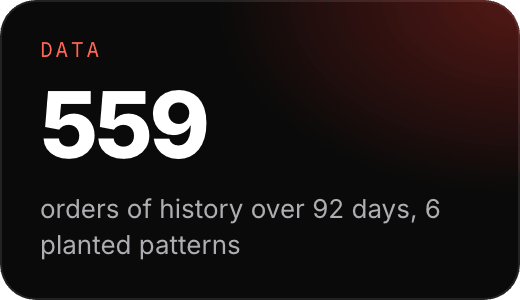
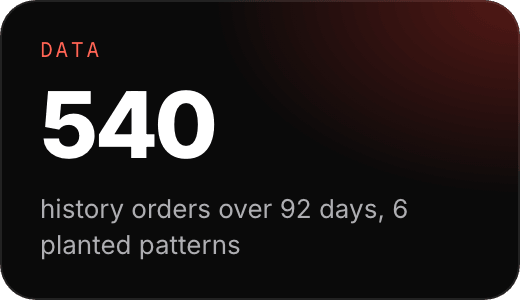
Bring the README in line with the final film and the live data

Changed region(s): [[0.0615, 0.66, 0.8615, 0.75], [0.1846, 0.3, 0.4308, 0.54]]

diff --git a/tools/gen-readme-assets.ts b/tools/gen-readme-assets.ts
@@ -4,7 +4,9 @@
 // presentation screenshots in docs/screenshots/presentation/; nothing is redrawn.
 //   npx tsx tools/gen-readme-assets.ts                       everything
 //   npx tsx tools/gen-readme-assets.ts --only logos,badges   some parts: logos, badges, banner, loop, stats, screens,
-//                                                            arch, film (film needs the frames named at writeFilm)
+//                                                            arch, film
+// film runs only when named: docs/readme/film.png is now a frame of the final cut, and this part draws the old poster
+// of the 2:55 draft over it (it also needs the frames named at writeFilm).
 // CHROME=/path/to/chrome overrides the browser. Output PNGs are palette compressed with sharp.
 import { spawn } from 'node:child_process';
 import {
@@ -490,22 +492,24 @@ async function writeLoop(): Promise<void> {
 }
 
 // ---------------------------------------------------------------------------------------------------------------
-// Number cards: 260 × 150 at 2×. Every number is measured; the README links each card to its source file.
+// Number cards: 260 × 150 at 2×. Every number is measured; the README links each card to its source file. The two
+// live loop cards are the film's take (docs/live-loop-timings.md); the history card counts history orders only (the
+// database also holds the 19 orders of the Demo Day start state).
 
 const STATS: { file: string; eyebrow: string; value: string; unit?: string; label: string }[] = [
   {
     file: 'issue-to-red',
     eyebrow: 'Live loop',
-    value: '1.9',
+    value: '0.72',
     unit: 's',
-    label: '«Выдать» to the worker’s red screen on the live database',
+    label: '«Выдать» to the red screen, Release build on two simulators',
   },
   {
     file: 'ai-verdict',
     eyebrow: 'Live loop',
-    value: '9.5',
+    value: '8.49',
     unit: 's',
-    label: 'from sending the report to Claude’s verdict, the same live run',
+    label: 'from sending the report to Claude’s verdict on the worker’s phone',
   },
   {
     file: 'golden',
@@ -534,8 +538,8 @@ const STATS: { file: string; eyebrow: string; value: string; unit?: string; labe
   {
     file: 'history',
     eyebrow: 'Data',
-    value: '559',
-    label: 'orders of history over 92 days, 6 planted patterns',
+    value: '540',
+    label: 'history orders over 92 days, 6 planted patterns',
   },
   {
     file: 'tests',
@@ -830,4 +834,4 @@ if (want('loop')) await writeLoop();
 if (want('stats')) await writeStats();
 if (want('screens')) await writeScreens();
 if (want('arch')) await writeArchitecture();
-if (want('film')) await writeFilm();
+if (only.has('film')) await writeFilm();

diff --git a/README.md b/README.md
@@ -46,8 +46,8 @@ suite. Click a card for the file that holds it. Estimates live in their own sect
 
 <table>
   <tr>
-    <td align="center"><a href="docs/progress.md"><img src="docs/readme/stats/issue-to-red.png" width="250" alt="1.9 s from «Выдать» to the worker's red screen on the live database"></a><br><sub><a href="docs/progress.md">progress.md</a>, P7 check in two browsers</sub></td>
-    <td align="center"><a href="docs/progress.md"><img src="docs/readme/stats/ai-verdict.png" width="250" alt="9.5 s from sending the report to Claude's verdict"></a><br><sub><a href="docs/progress.md">progress.md</a>, the same check</sub></td>
+    <td align="center"><a href="docs/live-loop-timings.md"><img src="docs/readme/stats/issue-to-red.png" width="250" alt="0.72 s from «Выдать» on the master's phone to the worker's red screen, Release build on two iPhone simulators against the live database"></a><br><sub><a href="docs/live-loop-timings.md">live-loop-timings.md</a>, the film's take, interval 1</sub></td>
+    <td align="center"><a href="docs/live-loop-timings.md"><img src="docs/readme/stats/ai-verdict.png" width="250" alt="8.49 s from sending the report to Claude's verdict on the worker's phone, the same take"></a><br><sub><a href="docs/live-loop-timings.md">live-loop-timings.md</a>, the same take, interval 6</sub></td>
     <td align="center"><a href="docs/golden-results.md"><img src="docs/readme/stats/golden.png" width="250" alt="10 из 10 golden set verdicts right with Claude Sonnet 5.5"></a><br><sub><a href="docs/golden-results.md">golden-results.md</a></sub></td>
   </tr>
   <tr>
@@ -56,11 +56,15 @@ suite. Click a card for the file that holds it. Estimates live in their own sect
     <td align="center"><a href="docs/phase5-acceptance.md"><img src="docs/readme/stats/shift-report.png" width="250" alt="5 of 5 shift report windows equal to a manual SQL count"></a><br><sub><a href="docs/phase5-acceptance.md">phase5-acceptance.md</a> (b)</sub></td>
   </tr>
   <tr>
-    <td align="center"><a href="tools/seed/PATTERNS.md"><img src="docs/readme/stats/history.png" width="250" alt="559 orders of history over 92 days with 6 planted patterns"></a><br><sub><a href="docs/progress.md">progress.md</a>, <a href="tools/seed/PATTERNS.md">PATTERNS.md</a></sub></td>
+    <td align="center"><a href="tools/seed/PATTERNS.md"><img src="docs/readme/stats/history.png" width="250" alt="540 history orders over 92 days with 6 planted patterns"></a><br><sub><a href="docs/progress.md">progress.md</a>, <a href="tools/seed/PATTERNS.md">PATTERNS.md</a></sub></td>
     <td align="center"><a href="vitest.config.ts"><img src="docs/readme/stats/tests.png" width="250" alt="660 automated tests pass, plus 7 of 7 live contract scenarios"></a><br><sub><code>npx vitest run</code>, 09.10.2026; <a href="docs/progress.md">progress.md</a></sub></td>
     <td align="center"><a href="docs/golden-results.md"><img src="docs/readme/stats/cost.png" width="250" alt="0.016 USD mean cost of one check in the live golden run"></a><br><sub><a href="docs/golden-results.md">golden-results.md</a>, 0.16 USD for 10</sub></td>
   </tr>
 </table>
+
+The two timings are the take the film plays: the Release build on two iPhone simulators against the live database, read
+frame by frame off the screen recordings of 9 October 2026. An earlier run of the same loop between two browsers on the
+phone app in the browser measured 1.9 s to the red screen and 9.5 s to the verdict ([`docs/progress.md`](docs/progress.md), P7).
 
 ## How it works: one наряд, six steps
 
@@ -76,8 +80,9 @@ suite. Click a card for the file that holds it. Estimates live in their own sect
 | 6 | мастер | The full report; «Согласен, закрыть», «Изменить оценку» or «Вернуть на доработку». The master has the final word. | «Закрыт» |
 
 Every status change is one `order_events` row with the server's clock, and reaches the other devices through
-<img src="docs/readme/logos/supabase.svg" height="18" align="top"> Supabase Realtime: the case asks for 5 s, the live
-check in two browsers measured 1.9 s from «Выдать» to the red screen.
+<img src="docs/readme/logos/supabase.svg" height="18" align="top"> Supabase Realtime: the case asks for 5 s, the Release
+build on two iPhone simulators measured 0.72 s from «Выдать» to the red screen, and 0.7 to 1.4 s for «Принят в работу»,
+«В работе» and «Закрыт» to reach the other phone ([timings](docs/live-loop-timings.md)).
 
 ## Screens
 
@@ -172,7 +177,7 @@ project, and the bot's webhook is set; remote push on Android waits for the Fire
 
 <picture><source media="(prefers-color-scheme: dark)" srcset="packages/design/assets/mascots/dark/read.svg"><img src="packages/design/assets/mascots/read.svg" width="96" align="right" alt=""></picture>
 
-The synthetic history (559 orders over 92 days, generated inside the database) carries six planted patterns with an
+The synthetic history (540 orders over 92 days, generated inside the database) carries six planted patterns with an
 answer key ([`tools/seed/PATTERNS.md`](tools/seed/PATTERNS.md)). SQL detectors find them; Claude writes the cards from
 those numbers only, and a checker drops any card with a number that is not in the data.
 
@@ -275,7 +280,8 @@ gateway.
 
 **Integration with 1С and ТОиР.** Every table is a REST endpoint through PostgREST. A trigger writes `order.created`
 and `order.closed` (with the material lines) to `integration_outbox`, the seam for 1С:ТОИР documents: заявка на
-ремонт, акт выполненных работ, требование накладная на материалы.
+ремонт, акт выполненных работ, требование накладная на материалы. The exchange, the real payloads, the field mapping
+and the directory sync back from 1С: [`docs/integration-1c.md`](docs/integration-1c.md).
 
 **Security by construction.** Login by табельный номер and ПИН; the role comes from the JWT (`app_metadata.app_role`)
 and every table has row level security. The client never updates `orders`: every change goes through the security
@@ -320,16 +326,23 @@ falls back to rules only when the model is off or over budget.
 
 ## Demo video
 
-<a href="video/README.md"><img src="docs/readme/film.png" width="100%" alt="The Rota demo film, 2:55: the red emergency screen, the two phones, the AI verdict 87 из 100 and the analytics card for Конвейер К-3."></a>
+<a href="video/README.md"><img src="docs/readme/film.png" width="100%" alt="The Rota demo film, 2:58. Poster: the red emergency screen of order №660 for Насос НШ-32 маслостанции, the order Claude scores 84 из 100 later in the film."></a>
+<!-- YOUTUBE -->
 
-The film is code: a Remotion project in [`video/`](video/README.md) that cuts the Demo Day script to 2:55 at
-1920 × 1080 with Russian captions, every number on screen listed with its source in
-[`video/src/data/numbers.ts`](video/src/data/numbers.ts). The draft runs on the real presentation screens of the live
-project; the recorded takes of the phones and the web panel go to `video/public/footage/`
-([RECORDING.md](video/RECORDING.md)) and replace the stills scene by scene. The final cut gets its link here.
+The final cut runs 2:58 at 1920 × 1080, with Russian captions and no voice. It is cut from the recordings of
+9 October 2026: the Release build of the app on two iPhone simulators (мастер 1001, исполнитель 2001, then 2002 for the
+rework) and the web panel, all on the live database. Emergency order №660 reaches the red screen, is accepted, started,
+closed with the after photo and checked by Claude: 84 из 100, «Принято», and the мастер closes it; №641, sent without a
+photo and with 6 bearings, comes back for rework. Waits are cut: the cuts in the deadline and rework scenes say so on
+screen («ожидание вырезано»), and the web clips are scripted takes played up to 2× faster. Every number in the film is
+read off the recording beside it or listed with its source in [`video/src/data/numbers.ts`](video/src/data/numbers.ts);
+the phone timings are in [`docs/live-loop-timings.md`](docs/live-loop-timings.md).
+
+The film is code: a Remotion project in [`video/`](video/README.md) with its [storyboard](video/STORYBOARD.md) and
+[recording guide](video/RECORDING.md).
 
 ```sh
-cd video && npm install && npm run render     # out/rota-demo.mp4, 2:55, 1920 × 1080
+cd video && npm install && npm run render     # out/rota-demo.mp4, 2:58, 1920 × 1080
 ```
 
 <details>
@@ -340,7 +353,8 @@ shows the web panel and mirrors A and B.
 
 1. A: the shift panel shows who is free, busy, queued and off shift; the board shows the active orders.
 2. A: photographs the oil leak on «Насос НШ-32 маслостанции» and issues an emergency order; the AI preselects Ахметов
-   with reasons; the tap counter stays at the required five.
+   with reasons; the app's own counter shows 6 taps in 15 s with the optional before photo (the film's take: «Выдан за
+   6 нажатий · 0:15»; the case allows 6 taps and one minute).
 3. B: siren and the red screen; «Принять», «Начать исполнение». A sees «Выполняет наряд №…» within seconds.
 4. A: a second order to Ахметов with the «1 мин» deadline; B puts it in the queue. The reminder fires at 30 s left,
    the overdue message reaches both phones within 5 s of the deadline.
@@ -366,7 +380,7 @@ shows the web panel and mirrors A and B.
 | [`supabase/tests`](supabase/tests) | SQL acceptance scripts and `transitions.json` |
 | [`tools`](tools) | Node scripts: golden set, LLM smoke test, push test, database check, acceptance checks, README assets |
 | [`video`](video/README.md) | the demo film: Remotion project, [storyboard](video/STORYBOARD.md), recording guide |
-| [`docs`](docs) | [development guide](docs/development.md), [architecture](docs/architecture.md), [decisions](docs/decisions.md), [design](docs/design.md), [progress](docs/progress.md), acceptance reports, the case PDF |
+| [`docs`](docs) | [development guide](docs/development.md), [architecture](docs/architecture.md), [1С integration](docs/integration-1c.md), [decisions](docs/decisions.md), [design](docs/design.md), [progress](docs/progress.md), [live loop timings](docs/live-loop-timings.md), acceptance reports, the [slides](docs/presentation/rota-presentation.pdf), the case PDF |
 | [`CLAUDE.md`](CLAUDE.md) | the engineering spec every phase was built against |
 
 ## Deliverables (case §12)
@@ -378,8 +392,8 @@ shows the web panel and mirrors A and B.
 | ✓ | Web panel and test accounts (мастер, исполнитель, руководитель) | [rota-naryad.netlify.app/login](https://rota-naryad.netlify.app/login) · 1001/1111, 2001/1234, 3001/3333 |
 | ✓ | Test dataset | [`supabase/seed/`](supabase/seed) and [`tools/seed/PATTERNS.md`](tools/seed/PATTERNS.md) |
 | ✓ | Architecture | [`docs/architecture.md`](docs/architecture.md) |
-| ○ | Presentation of at most 10 slides | in progress; screens ready in [`docs/screenshots/presentation/`](docs/screenshots/presentation/README.md) |
-| ○ | Demo video of at most 3 minutes | draft cut of 2:55 from [`video/`](video/README.md) on the real screens; the final cut after the phone recording, see [Demo video](#demo-video) |
+| ✓ | Presentation of at most 10 slides | 10 slides: [`docs/presentation/rota-presentation.pdf`](docs/presentation/rota-presentation.pdf) · [rota-naryad.netlify.app/rota-presentation.pdf](https://rota-naryad.netlify.app/rota-presentation.pdf) |
+| ✓ | Demo video of at most 3 minutes | the final cut, 2:58, from the footage recorded on 9 October 2026; the YouTube link is under the poster in [Demo video](#demo-video) |
 
 ## Credits and license
 
@@ -389,7 +403,7 @@ Geist Mono (SIL Open Font License). Platform marks come from Simple Icons (CC0) 
 say where Rota runs and what it connects to.
 
 No open source license is granted yet: all rights reserved by the author. The case materials belong to the organizers
-and АО «Костанайские Минералы». Every person in the data is synthetic. The README assets are rebuilt with
-`npx tsx tools/gen-readme-assets.ts`.
+and АО «Костанайские Минералы». Every person in the data is synthetic. The README pictures are rebuilt from the real
+screenshots with `npx tsx tools/gen-readme-assets.ts`; the film poster is a frame of the final cut.
 
 <p align="center"><img src="docs/readme/logos/rota.svg" height="28" alt="Rota"><br><sub>Наряд выдан, ИИ на контроле</sub></p>

diff --git a/docs/progress.md b/docs/progress.md
@@ -9,13 +9,13 @@ As of 2026-10-09, 02:45.
 | Phase | Status | Done | Open |
 | --- | --- | --- | --- |
 | P0 Foundation | done | Monorepo, `@rota/design`, `@rota/shared` with `MockApi`, every mobile screen, the web panel, Supabase skeleton, LLM client and privacy gateway, `llm:smoke --vision`, README, decisions, screenshots | Real FCM push on Android needs Firebase (`google-services.json` + the FCM V1 key in EAS) |
-| P1 Data core | done | Database by the architect, seeds loaded (559 orders), `SupabaseApi`, types, parity tests, `tools/db-check.ts` passes | `RUN_SUPABASE=1` contract suite waits for the `demo_reset` fix; migration history repair only with the owner's yes |
+| P1 Data core | done | Database by the architect, seeds loaded (540 history orders plus the 19 demo orders), `SupabaseApi`, types, parity tests, `tools/db-check.ts` passes | `RUN_SUPABASE=1` contract suite waits for the `demo_reset` fix; migration history repair only with the owner's yes |
 | P2 Live loop | done, walkthrough repeat open | Both apps in Supabase mode; live loop on two simulators against the real database (issue → red screen in under 3 s → accept, start, close with photo → AI check → master close); photo pipeline to Storage; web panel on real data | The §7 walkthrough twice with «Сбросить демо» between runs (the reset now works: `RUN_SUPABASE=1` contract suite 7 of 7) |
 | P3 Notifications | done except Android push | `notify-dispatch`, `telegram-webhook` (architect); channels, categories, sounds, siren screen, in-app toasts with the body; simulated APNs push opens the red screen; «Подключить Telegram» in the profile; Edge secrets set; Telegram `setWebhook` to `telegram-webhook` (bot @rota_case1_bot, no errors) | Firebase for Android push (`google-services.json`, FCM V1 key in EAS); locked phone acceptance on a real phone |
 | P4 AI control | done, live on Sonnet 5.5 | `ai-verify` v4 deployed (rules in SQL, one Sonnet call, rules only fallback, auth, idempotent); golden set **10 из 10** live (`docs/golden-results.md`, 0.16 USD); `ai.verify` calls the function with the rules as fallback; escalation link opens the reassign sheet | none |
 | P5 Reports and rating | done | `ai-shift-summary` (Sonnet) and `ai-explain-rating` (Haiku) deployed; PDF and Excel export; Сериков last on first time fix (64.7% vs team 91.3%, 92 days); `shift_report` equals the manual SQL count in five windows (`docs/phase5-acceptance.md`) | none (workload fix applied 2026-10-09) |
 | P6 Analytics | done | `ai-insights` deployed: Haiku reads the question, Sonnet writes cards, numbers checked against the data, rules fallback, cache, digest path; ask box, scope chips, mini charts; P1 to P6 within ±20% (`docs/phase6-acceptance.md`) | none (digest cron and `d_post_ppr` order applied 2026-10-09) |
-| P7 Demo hardening | in progress: deliverables built, Android phones open | Landing, web panel and the PWA live on https://rota-naryad.netlify.app (PWA at `/app/`, two browser loop verified: red screen 1.9 s after «Выдать», «Принят в работу» on the master 0.97 s after «Принять», «В работе» 1.1 s, AI verdict 9.5 s after «Отправить на проверку», «Закрыт» on the worker 0.8 s after the master closed it); demo steps 1 to 7 recorded on two iOS simulators with the release build against the live project (red screen 0.72 s, AI verdict 8.49 s, reminder 25.9 s before and overdue 4.35 s after the deadline, 6 taps in 15 s: `docs/live-loop-timings.md`), steps 8 and 9 in the web panel; Android APK on EAS (preview build of `b8323f8`); role guards on every mobile route; presentation screenshots; `docs/architecture.md`; `docs/integration-1c.md`; slides: 10 in `docs/presentation/rota-presentation.pdf` (`4214e06`), served at `/rota-presentation.pdf`; the film: 2:58.5, 1920 × 1080, cut from the recorded footage (`4984879`, render in the git ignored `video/out/rota-demo.mp4`) | Android push: no `google-services.json`, no FCM V1 key in EAS, `push_tokens` empty. A new APK: the EAS build predates 20 commits to `apps/mobile` and `packages/*`, the role guards among them. The script three times on Android phones with «Сбросить демо» between runs; that run also measures photo upload on a mobile network and Telegram delivery, neither recorded yet. The film uploaded and linked. README video and deliverables sections. Push `main` (`4984879` is local only) |
+| P7 Demo hardening | in progress: deliverables built, Android phones open | Landing, web panel and the PWA live on https://rota-naryad.netlify.app (PWA at `/app/`, two browser loop verified: red screen 1.9 s after «Выдать», «Принят в работу» on the master 0.97 s after «Принять», «В работе» 1.1 s, AI verdict 9.5 s after «Отправить на проверку», «Закрыт» on the worker 0.8 s after the master closed it); demo steps 1 to 7 recorded on two iOS simulators with the release build against the live project (red screen 0.72 s, AI verdict 8.49 s, reminder 25.9 s before and overdue 4.35 s after the deadline, 6 taps in 15 s: `docs/live-loop-timings.md`), steps 8 and 9 in the web panel; Android APK on EAS (preview build of `b8323f8`); role guards on every mobile route; presentation screenshots; `docs/architecture.md`; `docs/integration-1c.md`; slides: 10 in `docs/presentation/rota-presentation.pdf` (`4214e06`), served at `/rota-presentation.pdf`; the film: 2:58.5, 1920 × 1080, cut from the recorded footage (`4984879`, render in the git ignored `video/out/rota-demo.mp4`); README video and deliverables sections on the final cut and the slides | Android push: no `google-services.json`, no FCM V1 key in EAS, `push_tokens` empty. A new APK: the EAS build predates 20 commits to `apps/mobile` and `packages/*`, the role guards among them. The script three times on Android phones with «Сбросить демо» between runs; that run also measures photo upload on a mobile network and Telegram delivery, neither recorded yet. The film uploaded to YouTube and its link put under the README poster (the `<!-- YOUTUBE -->` line). Push `main` (`4984879` is local only) |
 
 ## Live project
 

diff --git a/docs/architecture.md b/docs/architecture.md
@@ -120,4 +120,4 @@ flowchart LR
 - **Personal data stays at the plant.** The LLM sees pseudonyms only. Production runs self hosted Supabase (open source) on the plant's servers or a KZ cloud (Law 94-V), and the LLM provider switch (`LLM_PROVIDER=openai_compatible`) puts a local model behind the same gateway.
 - **Reliability first.** Server time is the only clock; every mutation is idempotent; realtime resyncs on foreground and reconnect; the rules only review keeps working when the LLM is off or over budget.
 - **Integration.** `integration_outbox` receives `order.created` and `order.closed` (with materials) for 1С:ТОИР (заявка на ремонт, акт выполненных работ, требование накладная). The exchange, the real payloads, the field mapping, the directory sync back from 1С and the security model are in [integration-1c.md](integration-1c.md).
-- **Scale.** About 2 000 workers in 2 shifts: one realtime channel per signed in user, indexed views, reports computed in SQL; the hackathon instance holds 3 months of history (559 orders) with planted patterns P1 to P6.
+- **Scale.** About 2 000 workers in 2 shifts: one realtime channel per signed in user, indexed views, reports computed in SQL; the hackathon instance holds 3 months of history (540 orders) with planted patterns P1 to P6, plus the 19 orders of the Demo Day start state.

diff --git a/docs/development.md b/docs/development.md
@@ -129,7 +129,9 @@ npx tsx tools/db-check.ts
 # ok   insight    7 cards for 92 days, first: Конвейер К-3 ломается чаще всех
 ```
 
-Exit code 2 means the accounts are not there yet (run steps 1 to 3); 1 means a count or the connection failed.
+The orders count is the whole table: 540 history orders plus the 19 orders of the Demo Day start state make 559, and
+every order created since adds one until the next «Сбросить демо». Exit code 2 means the accounts are not there yet
+(run steps 1 to 3); 1 means a count or the connection failed.
 
 On a fresh project (a new cloud project or self-hosted Supabase on the plant's servers) run the 13 migrations in order
 instead of step 1, then steps 2 and 3, and store `project_url` and `secret_key` in Vault for the cron and pg_net calls.

diff --git a/docs/phase6-acceptance.md b/docs/phase6-acceptance.md
@@ -1,8 +1,8 @@
 # Phase 6 acceptance: analytics and anomalies
 
 CLAUDE.md §15 and §21 P6: «P1 to P5 found with magnitudes within ±20% of PATTERNS.md». Checked on 2026-10-09 between
-00:56 and 02:00 Asia/Qostanay on the live project «rota» (`wcjklkpkuhxgfdtbwbuk`, 559 orders, the history
-generated on 2026-10-08, demo state loaded). Branch `worktree-wf_cb013a97-1a7-3`.
+00:56 and 02:00 Asia/Qostanay on the live project «rota» (`wcjklkpkuhxgfdtbwbuk`, 559 orders: 540 of history
+generated on 2026-10-08 plus the 19 of the demo state). Branch `worktree-wf_cb013a97-1a7-3`.
 
 Repeat it with `npx tsx tools/ai-insights-check.ts` (`--patterns` and `--deployed`, free) and
 `npx tsx tools/ai-insights-check.ts --live` (paid, about 0.045 USD).

diff --git a/docs/phase5-acceptance.md b/docs/phase5-acceptance.md
@@ -1,7 +1,7 @@
 # Phase 5 acceptance
 
 Reports and rating (CLAUDE.md §13, §14, §21 P5) on the live project «rota» `wcjklkpkuhxgfdtbwbuk`, run on
-2026-10-09 between 00:58 and 01:45 Asia/Qostanay (night shift of 08.10, 559 history orders plus the demo state).
+2026-10-09 between 00:58 and 01:45 Asia/Qostanay (night shift of 08.10, 540 history orders plus the 19 demo state orders).
 
 Reproduce: `ROTA_SECRETS_DIR=<main checkout>/.secrets npx tsx tools/phase5-check.ts [--live] [--deployed]`
 (signed in as master 1001 with the publishable key; `--live` costs about 0.01 USD, `--deployed` is free while the

diff --git a/docs/screenshots/presentation/README.md b/docs/screenshots/presentation/README.md
@@ -1,6 +1,6 @@
 # Rota screenshots for the presentation
 
-Real data: Supabase project «rota» with 3 months of history (559 orders). Release build on iPhone 17 Pro (master, 1001) and iPhone 16 (workers 2001, 2002); web panel at 1440 × 900.
+Real data: Supabase project «rota» with 3 months of history (540 orders, plus the 19 orders of the Demo Day start state). Release build on iPhone 17 Pro (master, 1001) and iPhone 16 (workers 2001, 2002); web panel at 1440 × 900.
 
 ## Hero (`hero/`)
 
